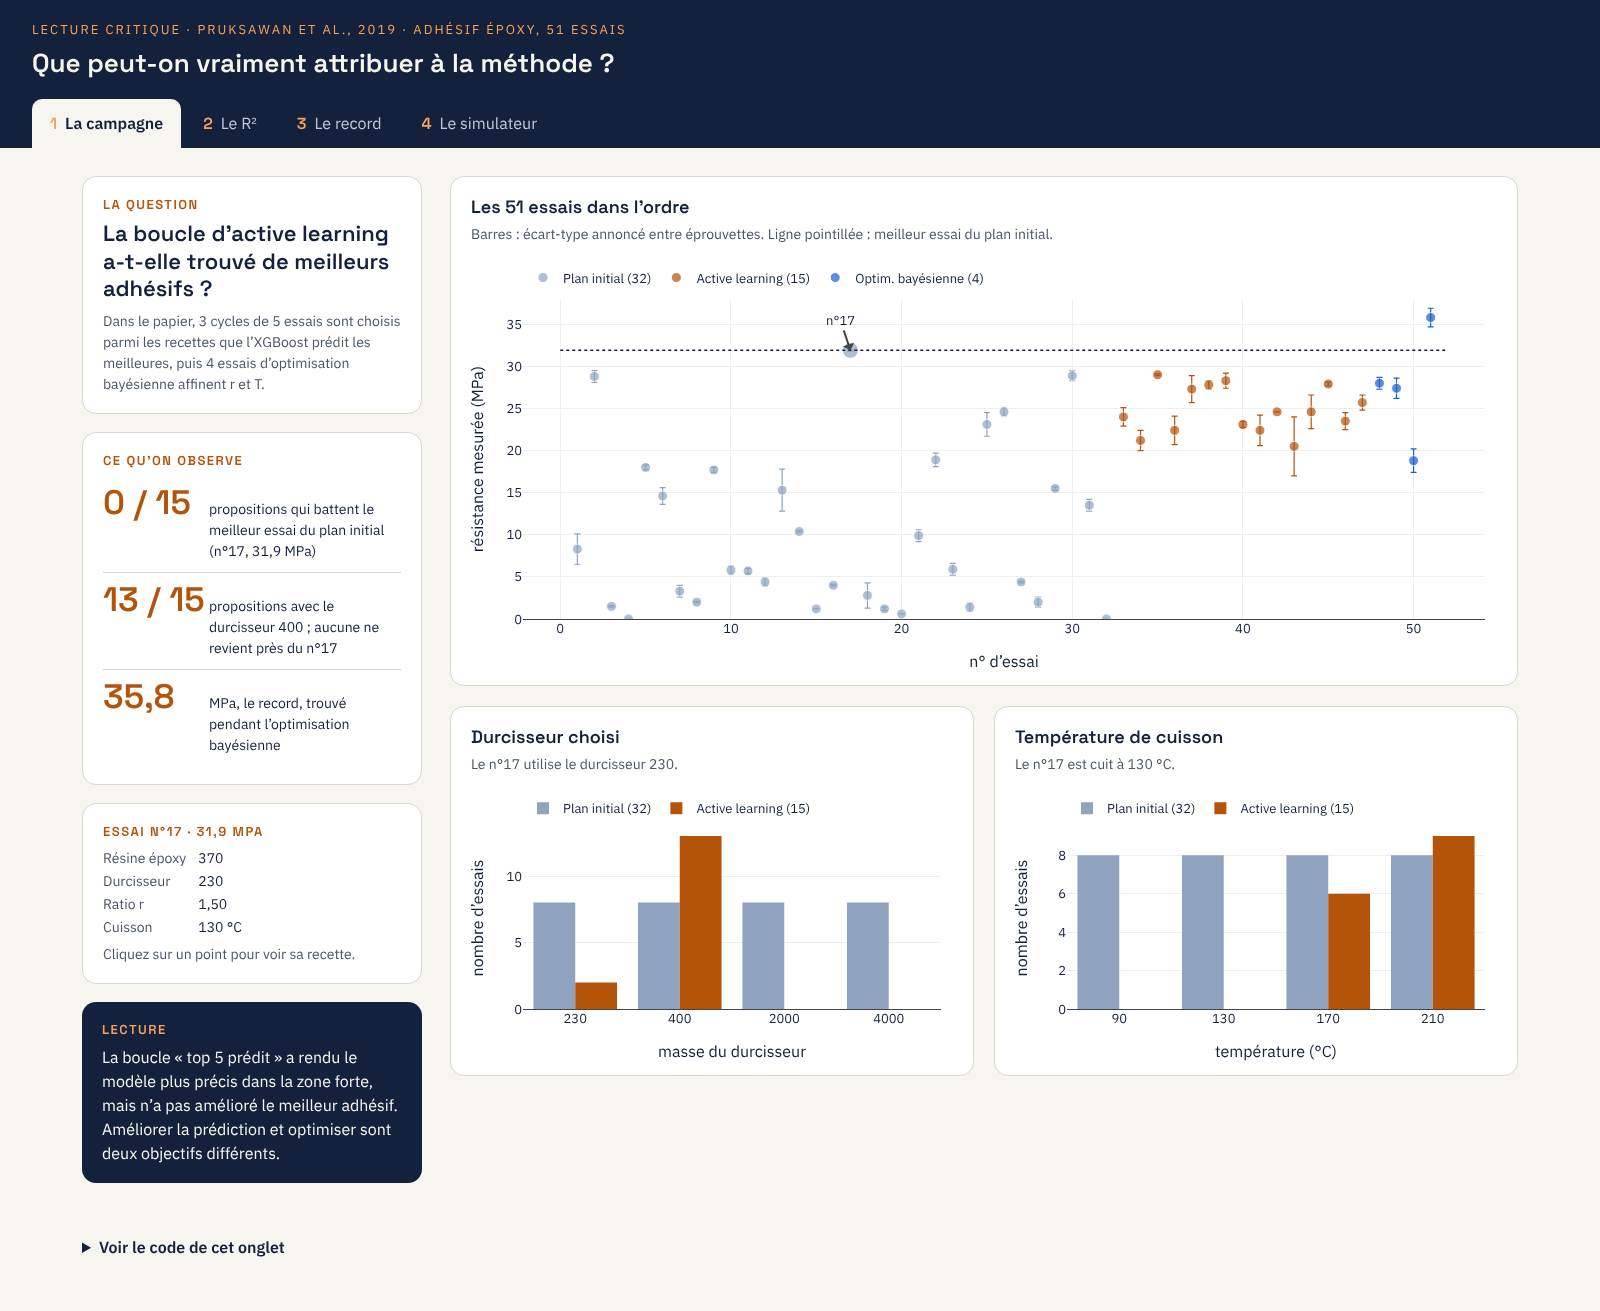
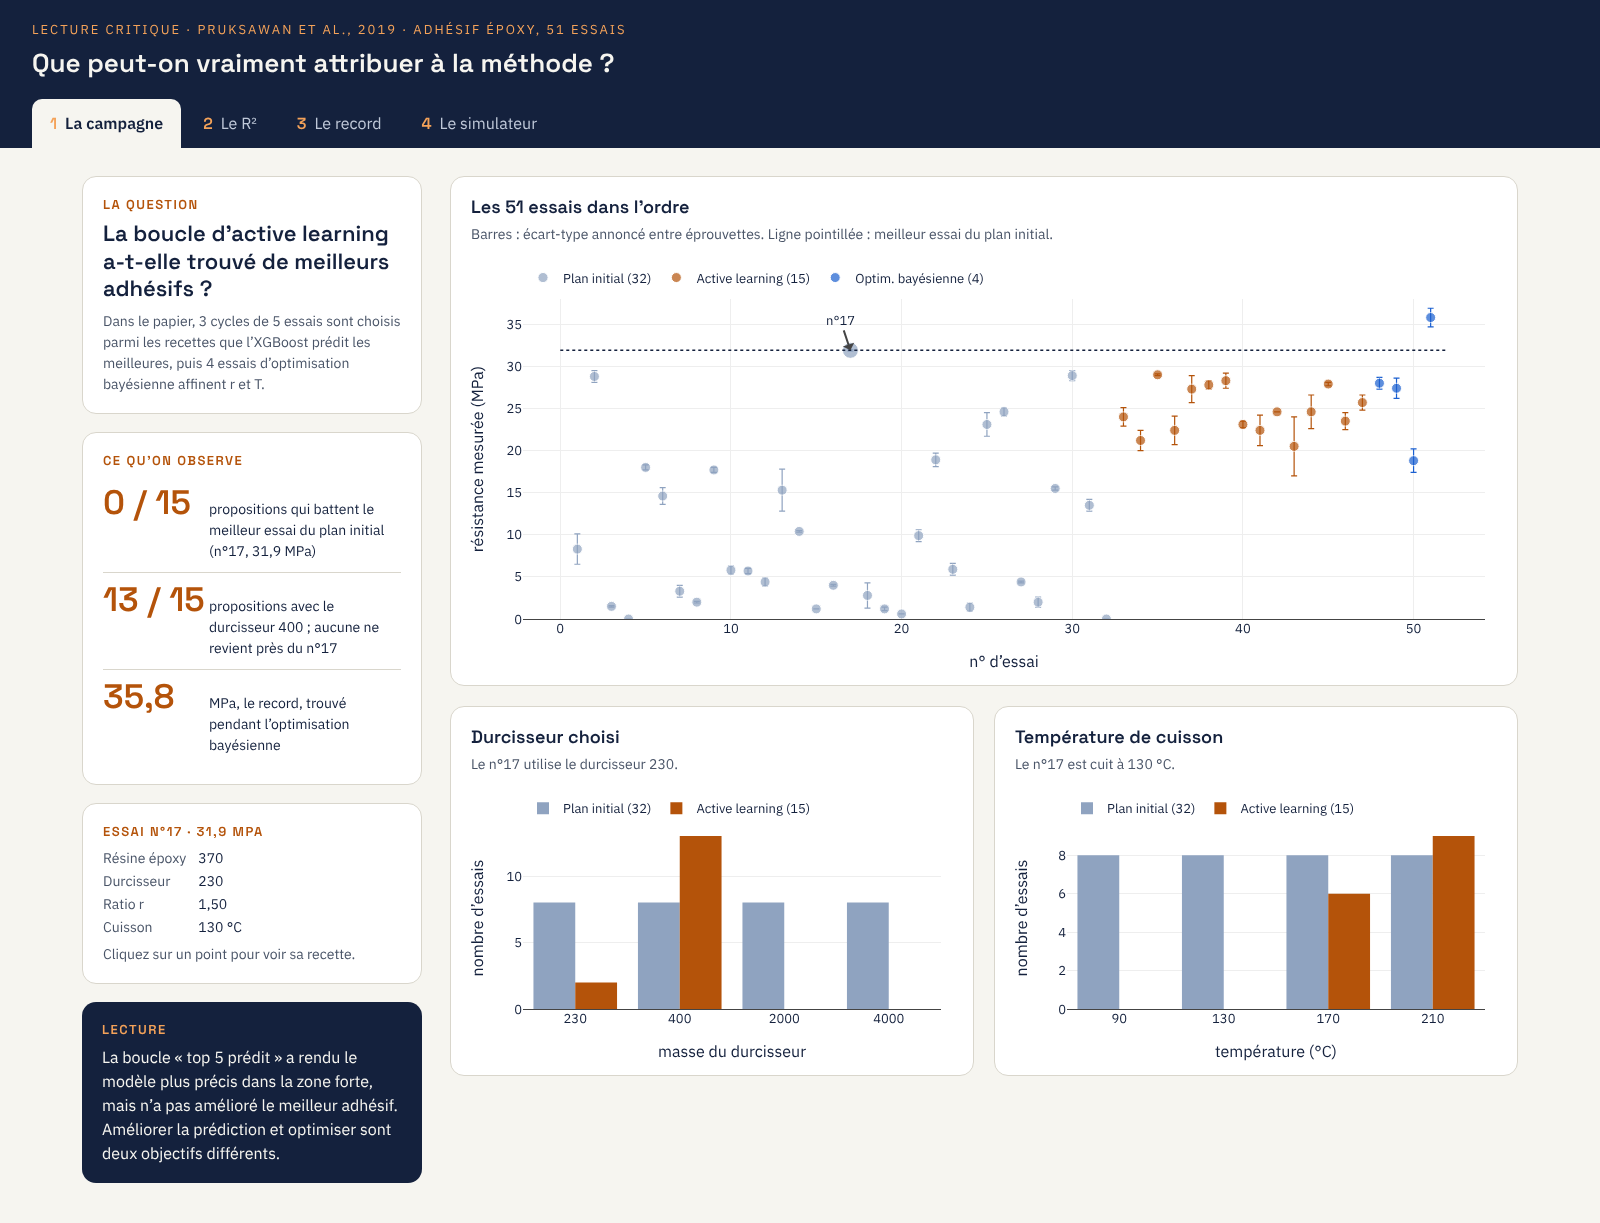
Add CI, API tests and an app screenshot in the README
- GitHub Actions: runs the tests, builds the Docker image and smoke-tests the running app
- tests/test_api.py: each endpoint answers and returns the numbers the slides rely on
- README: app screenshot and CI badge at the top; screenshots refreshed without the code drawer

diff --git a/tests/test_api.py b/tests/test_api.py
@@ -1,0 +1,77 @@
+"""Tests of the explorer app's API: each endpoint answers, and returns the
+numbers the slides rely on."""
+import sys
+from pathlib import Path
+
+import pytest
+from fastapi.testclient import TestClient
+
+sys.path.insert(0, str(Path(__file__).resolve().parents[1] / "app" / "api"))
+from main import app  # noqa: E402
+
+client = TestClient(app)
+
+
+def get(url, status=200):
+    r = client.get(url)
+    assert r.status_code == status, r.text
+    return r.json()
+
+
+def test_campaign_no_active_learning_proposal_beats_initial_best():
+    d = get("/api/campaign")
+    assert len(d["rows"]) == 51
+    assert d["best_initial"] == 31.9
+    assert d["n_al"] == 15
+    assert d["al_beating_initial"] == 0
+    assert d["al_with_mwc400"] == 13
+
+
+def test_loocv_gain_is_smaller_on_the_initial_design():
+    d = get("/api/loocv")
+    curve = {c["n"]: c for c in d["curve"]}
+    assert sorted(curve) == [32, 37, 42, 47]
+    start, end = curve[32], curve[47]
+    assert start["r2_all"] == pytest.approx(start["r2_doe"])
+    # R² rises on the growing set, much less on the 32 original points
+    assert end["r2_all"] - start["r2_all"] > end["r2_doe"] - start["r2_doe"]
+
+
+def test_replay_record_was_unlikely_for_the_gp():
+    d = get("/api/replay?mwe=370&mwc=400")
+    assert len(d["r"]) == 76 and len(d["T"]) == 121
+    pts = {p["id"]: p for p in d["bo_points"]}
+    assert sorted(pts) == [48, 49, 50, 51]
+    assert pts[51]["measured"] == 35.8
+    assert pts[51]["p_beat"] < 0.05
+    # a tree model predicts a few flat plateaus over the whole plane
+    assert len(d["plateaus"]) <= 15
+
+
+def test_replay_other_recipes_have_no_bo_points():
+    assert get("/api/replay?mwe=1650&mwc=2000")["bo_points"] == []
+
+
+def test_simulate_runs_three_batches_of_five():
+    d = get("/api/simulate?oracle=gp32&strategy=greedy_xgb&n_init=10&seed=0")
+    assert len(d["initial"]) == 10
+    assert [len(b) for b in d["batches"]] == [5, 5, 5]
+    best = d["best_so_far"]
+    assert len(best) == 4 and best == sorted(best)
+    assert best[-1] <= d["optimum"]["true"] + 1e-9
+
+
+def test_benchmark_summary_covers_all_strategies():
+    d = get("/api/benchmark")
+    assert {r["strategy"] for r in d["rows"]} == {"random", "greedy_xgb", "greedy_rf", "gp_mean", "gp_ei", "gp_ucb"}
+    assert set(d["optimum"]) == {"gp51", "rf51", "xgb51", "gp32"}
+
+
+@pytest.mark.parametrize("url", [
+    "/api/loocv?model=svm",
+    "/api/replay?mwe=999",
+    "/api/simulate?n_init=20",
+    "/api/simulate?strategy=nope",
+])
+def test_bad_parameters_are_rejected(url):
+    get(url, status=400)

diff --git a/README.md b/README.md
@@ -1,5 +1,11 @@
 # Active learning on a small materials dataset: a critical reproduction
 
+[![CI](https://github.com/allardlucas/epoxy-active-learning/actions/workflows/ci.yml/badge.svg)](https://github.com/allardlucas/epoxy-active-learning/actions/workflows/ci.yml)
+
+![The explorer app, tab 3: the paper's fixed XGBoost predicts flat plateaus, while a GP gave the 35.8 MPa record a 2 % chance](docs/screenshots/app.png)
+
+*The explorer app (tab 3, "Le record"). Run it with one command: see [Explorer app](#explorer-app-one-docker-image).*
+
 Reproduction and stress-test of **Pruksawan et al., "Prediction and optimization of epoxy adhesive strength from a small dataset through active learning"**, *Sci. Technol. Adv. Mater.* 20 (2019) 1010–1021, [doi:10.1080/14686996.2019.1673670](https://doi.org/10.1080/14686996.2019.1673670).
 
 The paper designs an epoxy adhesive from **32 lab experiments**: a Graeco-Latin design, an XGBoost model, 3 "active learning" cycles of 5 experiments, then Bayesian optimization. Its best adhesive reaches **35.8 MPa** in lap shear. This repo asks three questions:
@@ -48,7 +54,7 @@ docker run --rm -p 8000:8000 epoxy-explorer
 # then open http://localhost:8000
 ```
 
-Four tabs, one per question:
+Four tabs, one per question (screenshots in `docs/screenshots/`):
 
 1. **La campagne**: the 51 trials in order, recipe by recipe; none of the 15 active-learning proposals beats trial 17.
 2. **Le R²**: LOOCV R² on all points vs on the 32 DoE points, for XGBoost, Random Forest or ElasticNet, with the paper's hyperparameters or not.
